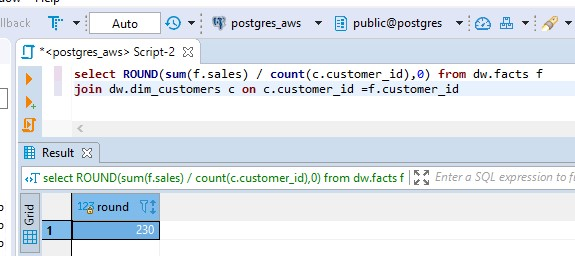
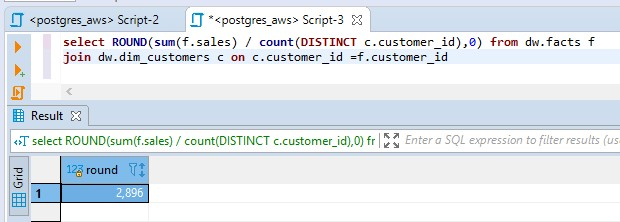
исправил расчет Sales per Customer

diff --git a/DE-101/Module2/readme.md b/DE-101/Module2/readme.md
@@ -133,7 +133,7 @@ join dw.dim_orders o on o.order_id =f.order_id
  
    #### Sales per Customer <br>
 ```sql
-select ROUND(sum(f.sales) / count(c.customer_id),0) from dw.facts f
+select ROUND(sum(f.sales) / count(DISTINCT c.customer_id),0) from dw.facts f
 join dw.dim_customers c on c.customer_id =f.customer_id
 ``` 
 
